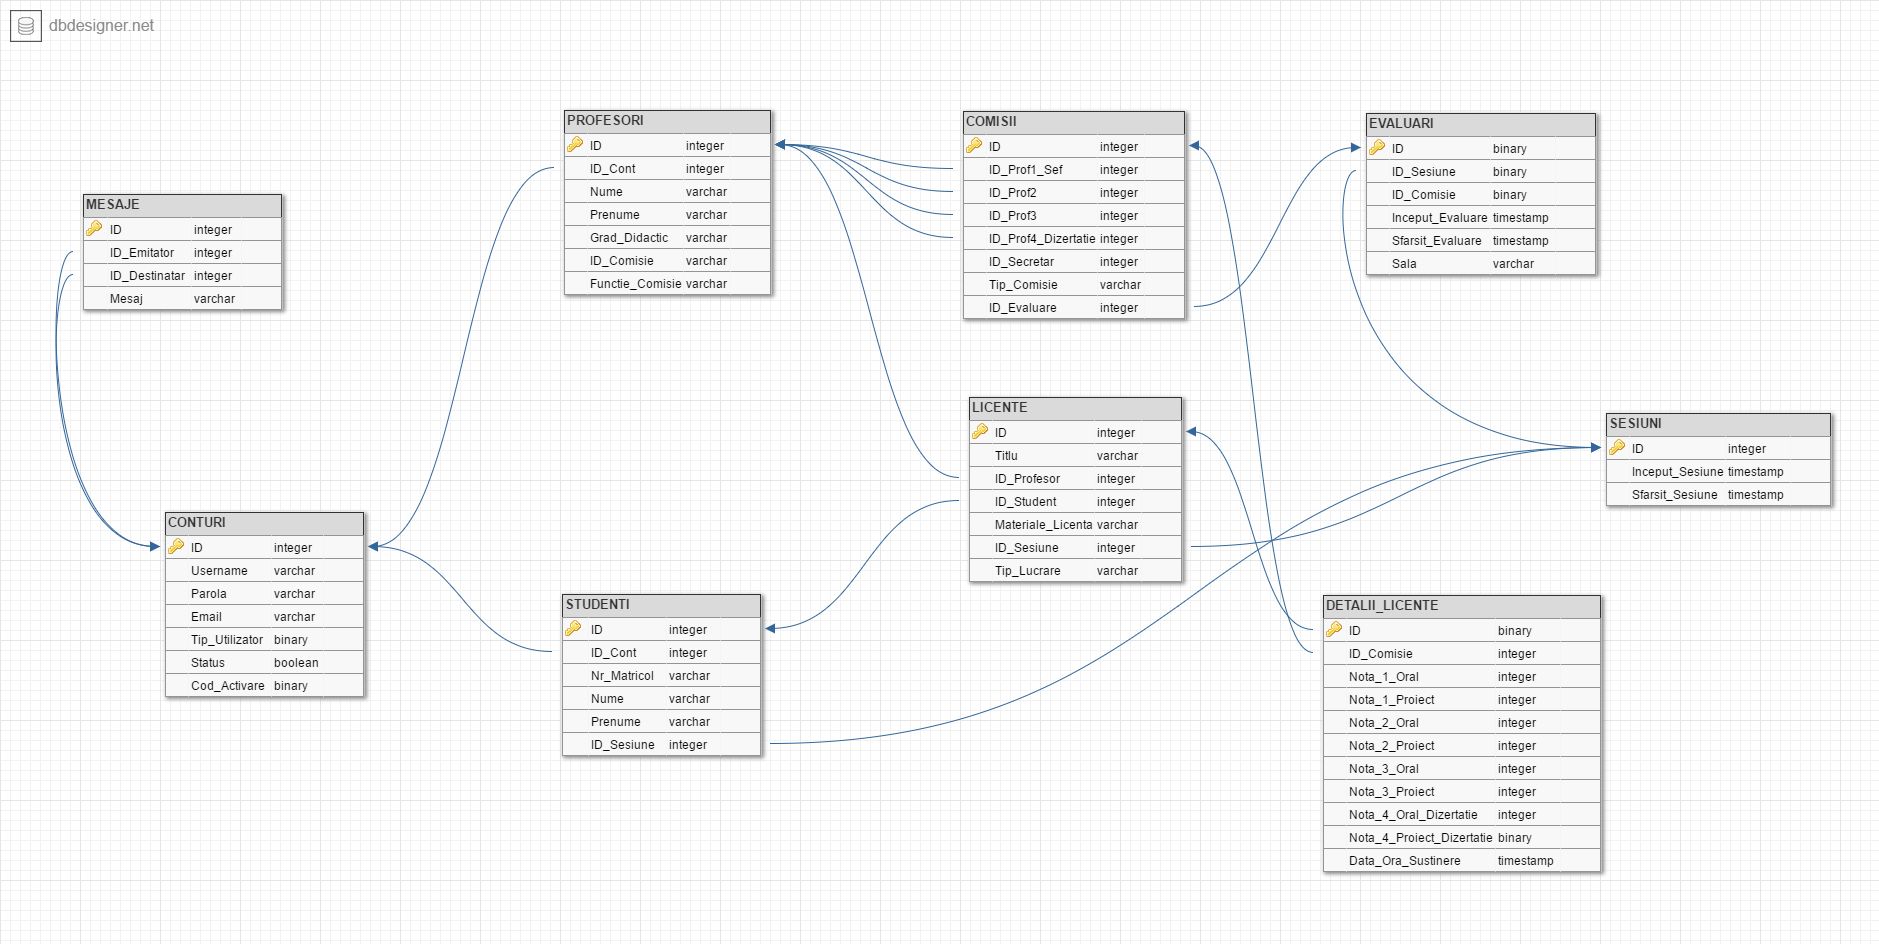
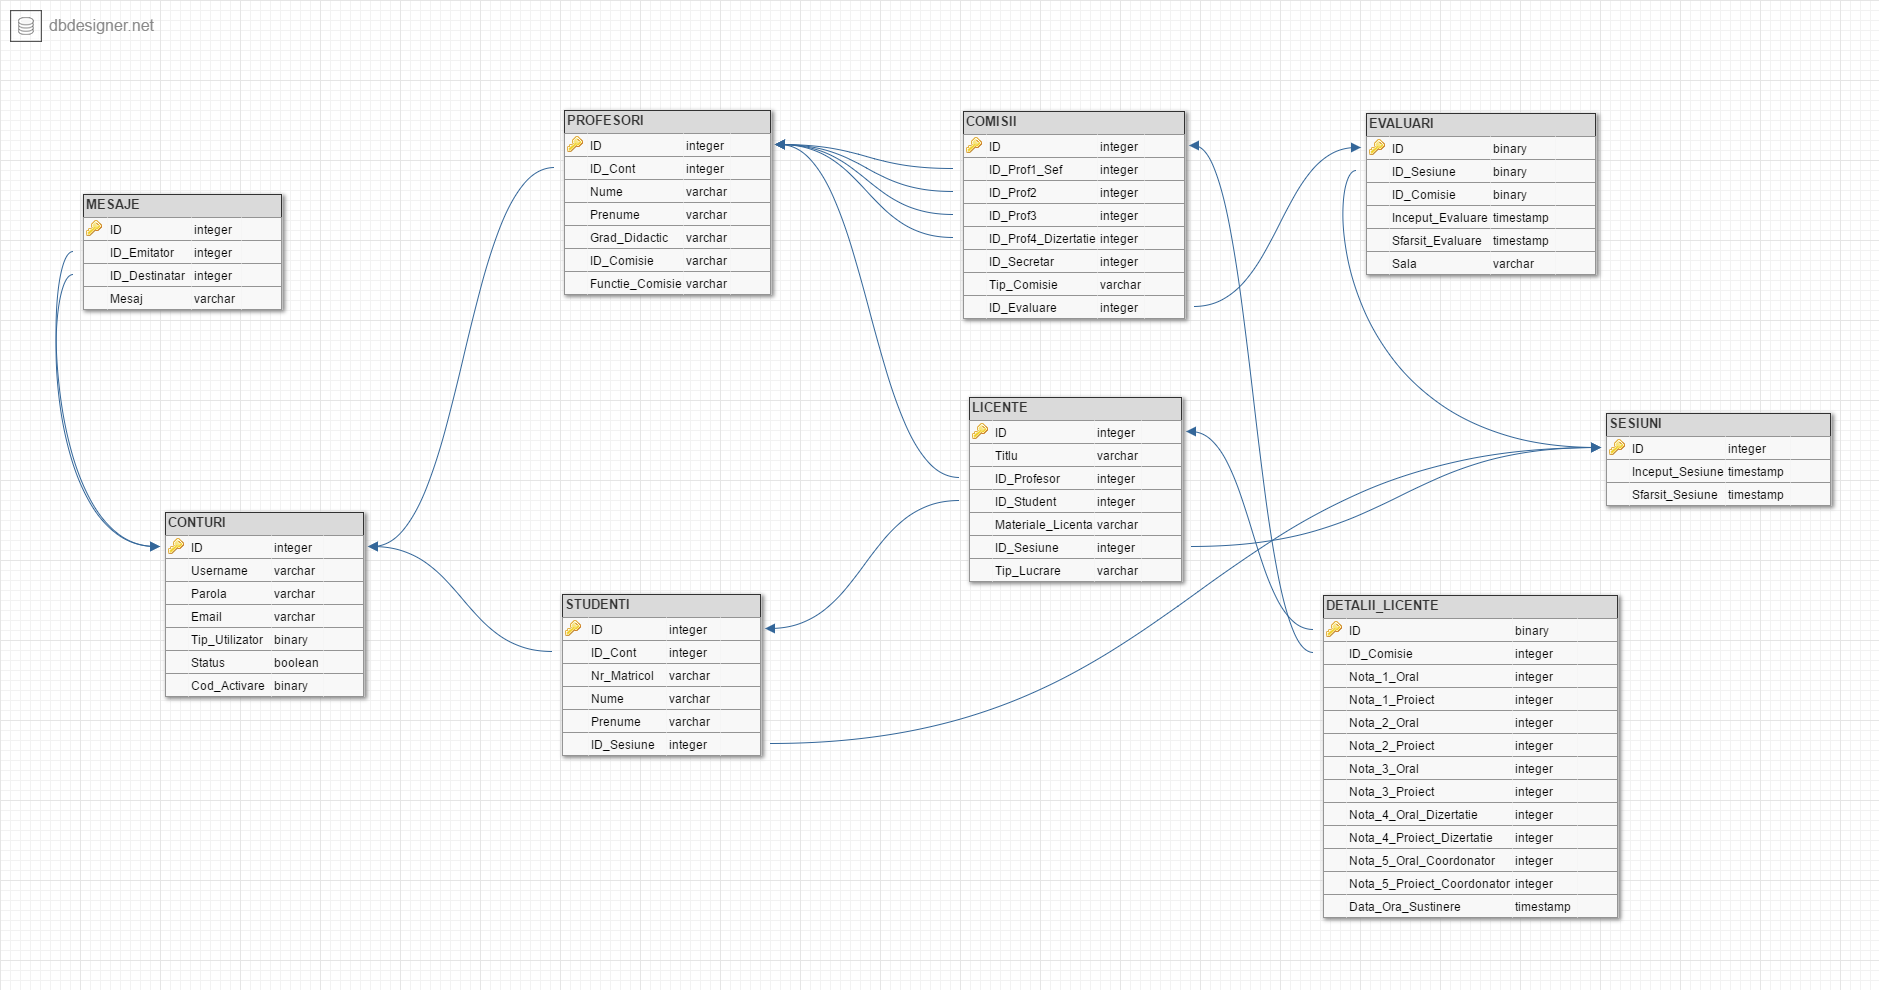
Implementare Finala API BD
Adaugat campuri de note coordonatori in Detalii Licente si am actualizat API-ul si scripturile

diff --git a/ProiectIPB7/IP/src/bd/AccessAdminBD.java b/ProiectIPB7/IP/src/bd/AccessAdminBD.java
@@ -175,7 +175,9 @@ public class AccessAdminBD extends AccessBD {
 				intrare.setNota3Proiect(result.getInt(8));
 				intrare.setNota4Oral(result.getInt(9));
 				intrare.setNota4Proiect(result.getInt(10));
-				intrare.setDataOraSustinerii(result.getTimestamp(11));
+				intrare.setNota5Oral(result.getInt(11));
+				intrare.setNota5Proiect(result.getInt(12));
+				intrare.setDataOraSustinerii(result.getTimestamp(13));
 				
 				rezultat.add(intrare);
 			}
@@ -420,7 +422,7 @@ public class AccessAdminBD extends AccessBD {
 	
 	public int updateDetaliiLicenta( IntrareDetaliiLicente intrare){
 		if(intrare.getId()==0) return -1;
-		String apel=" Update detalii_licente set id_comisie = ?, nota_1_oral = ?, nota_1_proiect = ?, nota_2_oral = ?, nota_2_proiect = ?, nota_3_oral = ?, nota_3_proiect = ?, nota_4_oral_dizertatie = ?, nota_4_proiect_dizertatie = ?, data_ora_sustinere = ? where id = ? ";
+		String apel=" Update detalii_licente set id_comisie = ?, nota_1_oral = ?, nota_1_proiect = ?, nota_2_oral = ?, nota_2_proiect = ?, nota_3_oral = ?, nota_3_proiect = ?, nota_4_oral_dizertatie = ?, nota_4_proiect_dizertatie = ?, nota_5_oral_coordonator=?, nota_5_proiect_coordonator=?, data_ora_sustinere = ? where id = ? ";
 		try{
 			
 			Statement  stmt = conexiune.createStatement();
@@ -441,8 +443,10 @@ public class AccessAdminBD extends AccessBD {
 			statement.setInt(7, intrare.getNota3Proiect());
 			statement.setInt(8, intrare.getNota4Oral());
 			statement.setInt(9, intrare.getNota4Proiect());
-			statement.setTimestamp(10, intrare.getDataOraSustinerii());
-			statement.setInt(11, intrare.getId());
+			statement.setInt(10, intrare.getNota5Oral());
+			statement.setInt(11, intrare.getNota5Proiect());
+			statement.setTimestamp(12, intrare.getDataOraSustinerii());
+			statement.setInt(13, intrare.getId());
 			statement.executeUpdate();
 			conexiune.commit();
 			
@@ -831,7 +835,7 @@ public class AccessAdminBD extends AccessBD {
 		try{
 			
 			if(intrare.getId()==0){
-				apel = " Insert into Detalii_licente Values(Detalii_SEQ.NEXTVAL, ?, ? ,?, ?, ?, ?, ?, ?, ?, ?)";
+				apel = " Insert into Detalii_licente Values(Detalii_SEQ.NEXTVAL, ?, ? ,?, ?, ?, ?, ?, ?, ?, ?, ?, ?)";
 				PreparedStatement statement = conexiune.prepareStatement(apel);
 				statement.setInt(1, intrare.getIdComisie());
 				statement.setInt(2, intrare.getNota1Oral());
@@ -842,7 +846,9 @@ public class AccessAdminBD extends AccessBD {
 				statement.setInt(7, intrare.getNota3Proiect());
 				statement.setInt(8, intrare.getNota4Oral());
 				statement.setInt(9, intrare.getNota4Proiect());
-				statement.setTimestamp(10, intrare.getDataOraSustinerii());
+				statement.setInt(10,  intrare.getNota5Oral());
+				statement.setInt(11, intrare.getNota5Proiect());
+				statement.setTimestamp(12, intrare.getDataOraSustinerii());
 				statement.executeUpdate();
 				conexiune.commit();
 				
@@ -863,7 +869,7 @@ public class AccessAdminBD extends AccessBD {
 					return -1;
 				}
 				
-				apel = " Insert into detalii_licente Values(?, ?, ?, ?, ?, ?, ?, ?, ?, ?, ?)";
+				apel = " Insert into detalii_licente Values(?, ?, ?, ?, ?, ?, ?, ?, ?, ?, ?, ?, ?)";
 				PreparedStatement statement = conexiune.prepareStatement(apel);
 				statement.setInt(1, intrare.getId());
 				statement.setInt(2, intrare.getIdComisie());
@@ -875,7 +881,9 @@ public class AccessAdminBD extends AccessBD {
 				statement.setInt(8, intrare.getNota3Proiect());
 				statement.setInt(9, intrare.getNota4Oral());
 				statement.setInt(10, intrare.getNota4Proiect());
-				statement.setTimestamp(11, intrare.getDataOraSustinerii());
+				statement.setInt(11,  intrare.getNota5Oral());
+				statement.setInt(12, intrare.getNota5Proiect());
+				statement.setTimestamp(13, intrare.getDataOraSustinerii());
 				statement.executeUpdate();
 				conexiune.commit();
 				

diff --git a/ProiectIPB7/IP/src/bd/AccessStudentBD.java b/ProiectIPB7/IP/src/bd/AccessStudentBD.java
@@ -33,7 +33,9 @@ public class AccessStudentBD extends  AccessBD{
 				intrare.setNota3Proiect(result.getInt(8));
 				intrare.setNota4Oral(result.getInt(9));
 				intrare.setNota4Proiect(result.getInt(10));
-				intrare.setDataOraSustinerii(result.getTimestamp(11));
+				intrare.setNota5Oral(result.getInt(11));
+				intrare.setNota5Proiect(result.getInt(12));
+				intrare.setDataOraSustinerii(result.getTimestamp(13));
 				
 				rezultat.add(intrare);
 			}
@@ -45,6 +47,7 @@ public class AccessStudentBD extends  AccessBD{
 			return null;
 		}
 	}
+	
 	
 	public List<IntrareLicente> selectLicente(){
 		List<IntrareLicente> rezultat = new ArrayList<IntrareLicente>();
@@ -252,7 +255,7 @@ public class AccessStudentBD extends  AccessBD{
 		try{
 			
 			if(intrare.getId()==0){
-				apel = " Insert into Detalii_licente Values(Detalii_SEQ.NEXTVAL, ?, ? ,?, ?, ?, ?, ?, ?, ?, ?)";
+				apel = " Insert into Detalii_licente Values(Detalii_SEQ.NEXTVAL, ?, ? ,?, ?, ?, ?, ?, ?, ?, ?, ?, ?)";
 				PreparedStatement statement = conexiune.prepareStatement(apel);
 				statement.setInt(1, intrare.getIdComisie());
 				statement.setInt(2, intrare.getNota1Oral());
@@ -263,7 +266,9 @@ public class AccessStudentBD extends  AccessBD{
 				statement.setInt(7, intrare.getNota3Proiect());
 				statement.setInt(8, intrare.getNota4Oral());
 				statement.setInt(9, intrare.getNota4Proiect());
-				statement.setTimestamp(10, intrare.getDataOraSustinerii());
+				statement.setInt(10,  intrare.getNota5Oral());
+				statement.setInt(11, intrare.getNota5Proiect());
+				statement.setTimestamp(12, intrare.getDataOraSustinerii());
 				statement.executeUpdate();
 				conexiune.commit();
 				
@@ -284,7 +289,7 @@ public class AccessStudentBD extends  AccessBD{
 					return -1;
 				}
 				
-				apel = " Insert into detalii_licente Values(?, ?, ?, ?, ?, ?, ?, ?, ?, ?, ?)";
+				apel = " Insert into detalii_licente Values(?, ?, ?, ?, ?, ?, ?, ?, ?, ?, ?, ?, ?)";
 				PreparedStatement statement = conexiune.prepareStatement(apel);
 				statement.setInt(1, intrare.getId());
 				statement.setInt(2, intrare.getIdComisie());
@@ -296,7 +301,9 @@ public class AccessStudentBD extends  AccessBD{
 				statement.setInt(8, intrare.getNota3Proiect());
 				statement.setInt(9, intrare.getNota4Oral());
 				statement.setInt(10, intrare.getNota4Proiect());
-				statement.setTimestamp(11, intrare.getDataOraSustinerii());
+				statement.setInt(11,  intrare.getNota5Oral());
+				statement.setInt(12, intrare.getNota5Proiect());
+				statement.setTimestamp(13, intrare.getDataOraSustinerii());
 				statement.executeUpdate();
 				conexiune.commit();
 				

diff --git a/ProiectIPB7/IP/src/bd/AccessProfesorBD.java b/ProiectIPB7/IP/src/bd/AccessProfesorBD.java
@@ -55,7 +55,9 @@ public class AccessProfesorBD extends AccessBD{
 				intrare.setNota3Proiect(result.getInt(8));
 				intrare.setNota4Oral(result.getInt(9));
 				intrare.setNota4Proiect(result.getInt(10));
-				intrare.setDataOraSustinerii(result.getTimestamp(11));
+				intrare.setNota5Oral(result.getInt(11));
+				intrare.setNota5Proiect(result.getInt(12));
+				intrare.setDataOraSustinerii(result.getTimestamp(13));
 				
 				rezultat.add(intrare);
 			}
@@ -67,6 +69,7 @@ public class AccessProfesorBD extends AccessBD{
 			return null;
 		}
 	}
+	
 	
 	public List<IntrareLicente> selectLicente(){
 		List<IntrareLicente> rezultat = new ArrayList<IntrareLicente>();
@@ -220,7 +223,7 @@ public class AccessProfesorBD extends AccessBD{
 
 	public int updateDetaliiLicenta( IntrareDetaliiLicente intrare){
 		if(intrare.getId()==0) return -1;
-		String apel=" Update detalii_licente set id_comisie = ?, nota_1_oral = ?, nota_1_proiect = ?, nota_2_oral = ?, nota_2_proiect = ?, nota_3_oral = ?, nota_3_proiect = ?, nota_4_oral_dizertatie = ?, nota_4_proiect_dizertatie = ?, data_ora_sustinere = ? where id = ? ";
+		String apel=" Update detalii_licente set id_comisie = ?, nota_1_oral = ?, nota_1_proiect = ?, nota_2_oral = ?, nota_2_proiect = ?, nota_3_oral = ?, nota_3_proiect = ?, nota_4_oral_dizertatie = ?, nota_4_proiect_dizertatie = ?, nota_5_oral_coordonator=?, nota_5_proiect_coordonator=?, data_ora_sustinere = ? where id = ? ";
 		try{
 			
 			Statement  stmt = conexiune.createStatement();
@@ -241,8 +244,10 @@ public class AccessProfesorBD extends AccessBD{
 			statement.setInt(7, intrare.getNota3Proiect());
 			statement.setInt(8, intrare.getNota4Oral());
 			statement.setInt(9, intrare.getNota4Proiect());
-			statement.setTimestamp(10, intrare.getDataOraSustinerii());
-			statement.setInt(11, intrare.getId());
+			statement.setInt(10, intrare.getNota5Oral());
+			statement.setInt(11, intrare.getNota5Proiect());
+			statement.setTimestamp(12, intrare.getDataOraSustinerii());
+			statement.setInt(13, intrare.getId());
 			statement.executeUpdate();
 			conexiune.commit();
 			
@@ -251,8 +256,9 @@ public class AccessProfesorBD extends AccessBD{
 		catch( Exception e ){
 			System.out.println("Exceptie la updateDetaliiLicenta" + e.getMessage());
 			return -7;
-		}
-	}	
+		}	
+		
+	}
 
 	public int insertMesaj( IntrareMesaje intrare ){
 		String apel;	

diff --git a/ProiectIPB7/IP/src/bd/AccessSecretarBD.java b/ProiectIPB7/IP/src/bd/AccessSecretarBD.java
@@ -151,7 +151,9 @@ public class AccessSecretarBD extends AccessBD{
 				intrare.setNota3Proiect(result.getInt(8));
 				intrare.setNota4Oral(result.getInt(9));
 				intrare.setNota4Proiect(result.getInt(10));
-				intrare.setDataOraSustinerii(result.getTimestamp(11));
+				intrare.setNota5Oral(result.getInt(11));
+				intrare.setNota5Proiect(result.getInt(12));
+				intrare.setDataOraSustinerii(result.getTimestamp(13));
 				
 				rezultat.add(intrare);
 			}
@@ -163,6 +165,7 @@ public class AccessSecretarBD extends AccessBD{
 			return null;
 		}
 	}
+	
 	
 	public List<IntrareLicente> selectLicente(){
 		List<IntrareLicente> rezultat = new ArrayList<IntrareLicente>();
@@ -309,7 +312,7 @@ public class AccessSecretarBD extends AccessBD{
 	
 	public int updateDetaliiLicenta( IntrareDetaliiLicente intrare){
 		if(intrare.getId()==0) return -1;
-		String apel=" Update detalii_licente set id_comisie = ?, nota_1_oral = ?, nota_1_proiect = ?, nota_2_oral = ?, nota_2_proiect = ?, nota_3_oral = ?, nota_3_proiect = ?, nota_4_oral_dizertatie = ?, nota_4_proiect_dizertatie = ?, data_ora_sustinere = ? where id = ? ";
+		String apel=" Update detalii_licente set id_comisie = ?, nota_1_oral = ?, nota_1_proiect = ?, nota_2_oral = ?, nota_2_proiect = ?, nota_3_oral = ?, nota_3_proiect = ?, nota_4_oral_dizertatie = ?, nota_4_proiect_dizertatie = ?, nota_5_oral_coordonator=?, nota_5_proiect_coordonator=?, data_ora_sustinere = ? where id = ? ";
 		try{
 			
 			Statement  stmt = conexiune.createStatement();
@@ -330,8 +333,10 @@ public class AccessSecretarBD extends AccessBD{
 			statement.setInt(7, intrare.getNota3Proiect());
 			statement.setInt(8, intrare.getNota4Oral());
 			statement.setInt(9, intrare.getNota4Proiect());
-			statement.setTimestamp(10, intrare.getDataOraSustinerii());
-			statement.setInt(11, intrare.getId());
+			statement.setInt(10, intrare.getNota5Oral());
+			statement.setInt(11, intrare.getNota5Proiect());
+			statement.setTimestamp(12, intrare.getDataOraSustinerii());
+			statement.setInt(13, intrare.getId());
 			statement.executeUpdate();
 			conexiune.commit();
 			

diff --git a/ProiectIPB7/IP/src/bd/IntrareDetaliiLicente.java b/ProiectIPB7/IP/src/bd/IntrareDetaliiLicente.java
@@ -13,6 +13,8 @@ public class IntrareDetaliiLicente {
 	int nota3Proiect;
 	int nota4Oral;
 	int nota4Proiect;
+	int nota5Oral;
+	int nota5Proiect;
 	Timestamp dataOraSustinerii;
 	
 	public int getId() {
@@ -74,6 +76,18 @@ public class IntrareDetaliiLicente {
 	}
 	public void setNota4Proiect(int nota4Proiect) {
 		this.nota4Proiect = nota4Proiect;
+	}
+	public int getNota5Oral() {
+		return nota5Oral;
+	}
+	public void setNota5Oral(int nota5Oral) {
+		this.nota5Oral = nota5Oral;
+	}
+	public int getNota5Proiect() {
+		return nota5Proiect;
+	}
+	public void setNota5Proiect(int nota5Proiect) {
+		this.nota5Proiect = nota5Proiect;
 	}
 	public Timestamp getDataOraSustinerii() {
 		return dataOraSustinerii;
